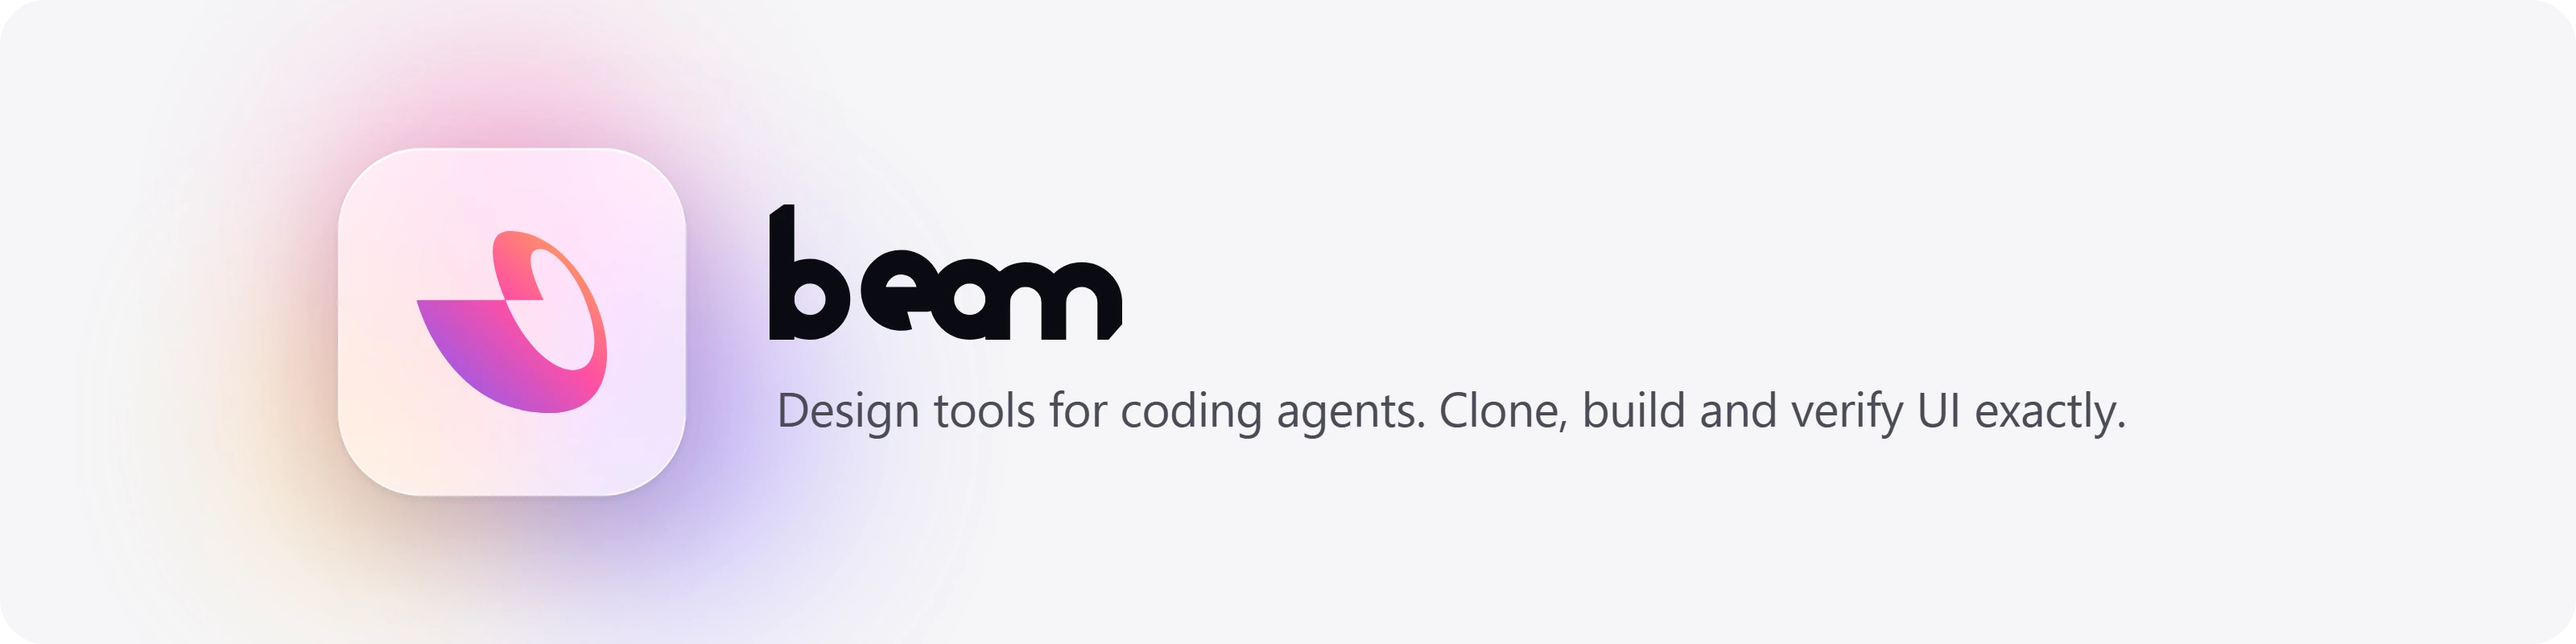
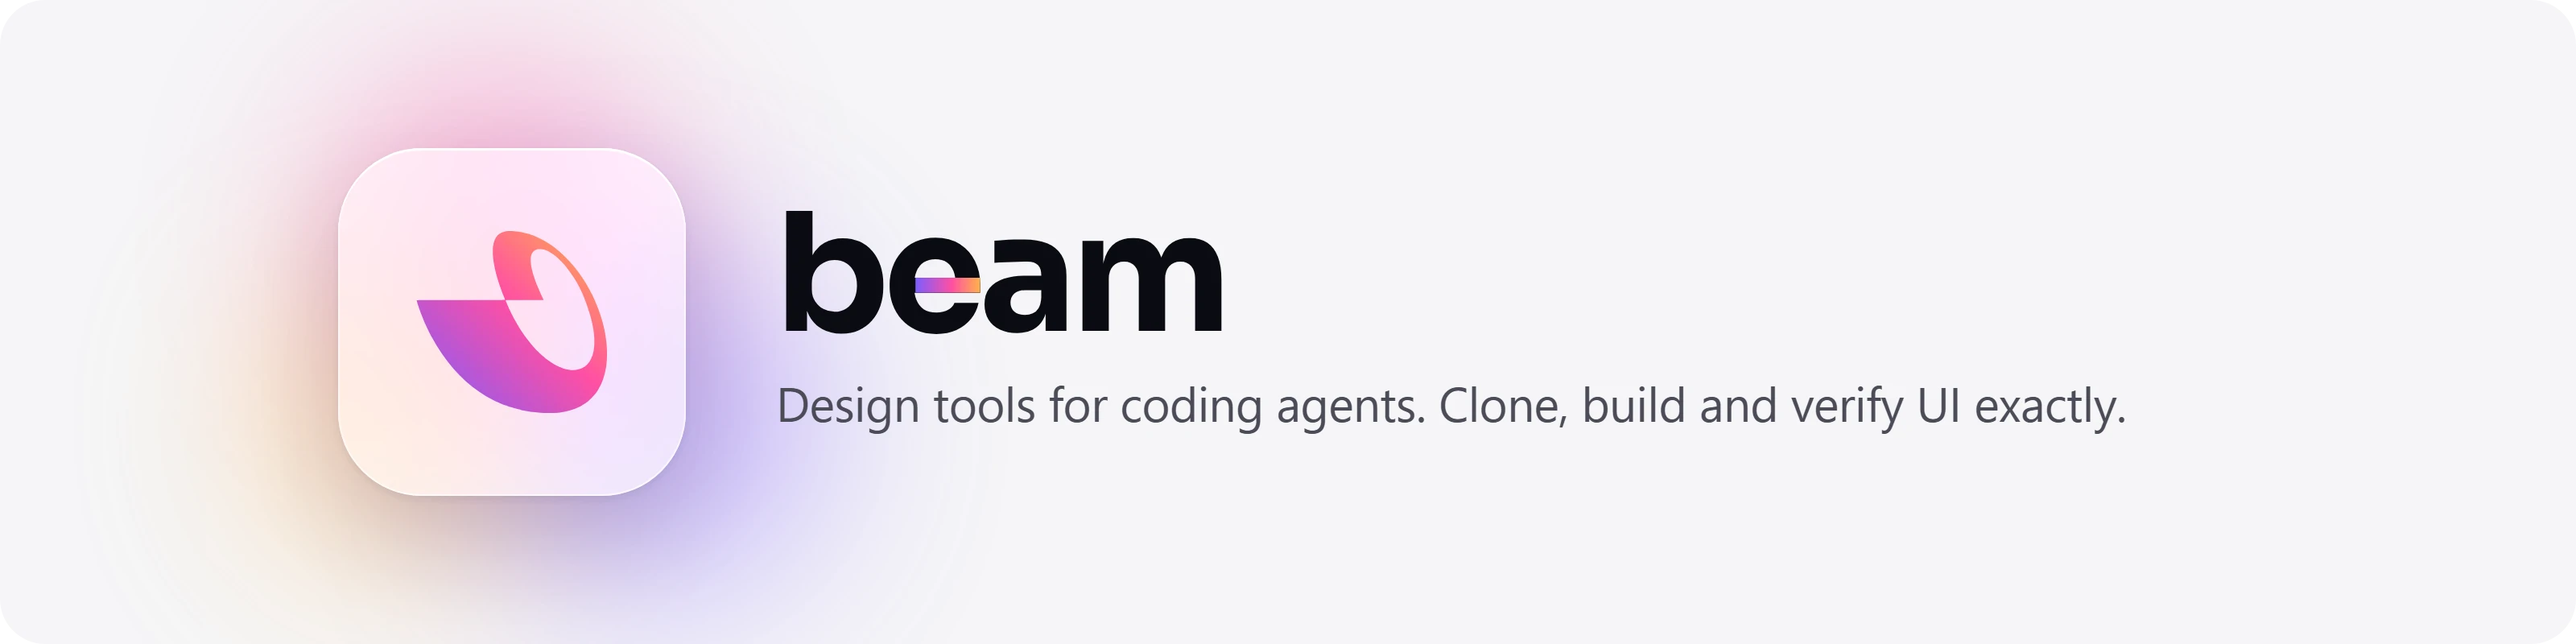
brand: refresh the README cover wordmark

Changed region(s): [[0.2812, 0.5938, 0.8438, 0.6875], [0.2812, 0.3125, 0.5, 0.5312]]

diff --git a/assets/brand/cover.html b/assets/brand/cover.html
@@ -16,7 +16,7 @@
     box-shadow: inset 0 1.5px 0 rgba(255, 255, 255, 0.95), inset 0 -1px 0 rgba(255, 255, 255, 0.35), inset 0 0 0 1px rgba(255, 255, 255, 0.55),
       0 24px 60px rgba(40, 30, 80, 0.16), 0 2px 6px rgba(40, 30, 80, 0.08); }
   .icon img { width: 128px; height: 128px; }
-  .text img { display: block; height: 84px; margin-left: -4px; }
+  .text img { display: block; height: 78px; margin-left: -2px; }
   .text p { margin: 22px 0 0; font-size: 30px; letter-spacing: -0.01em; color: #4b4b57; }
 </style></head>
 <body>
